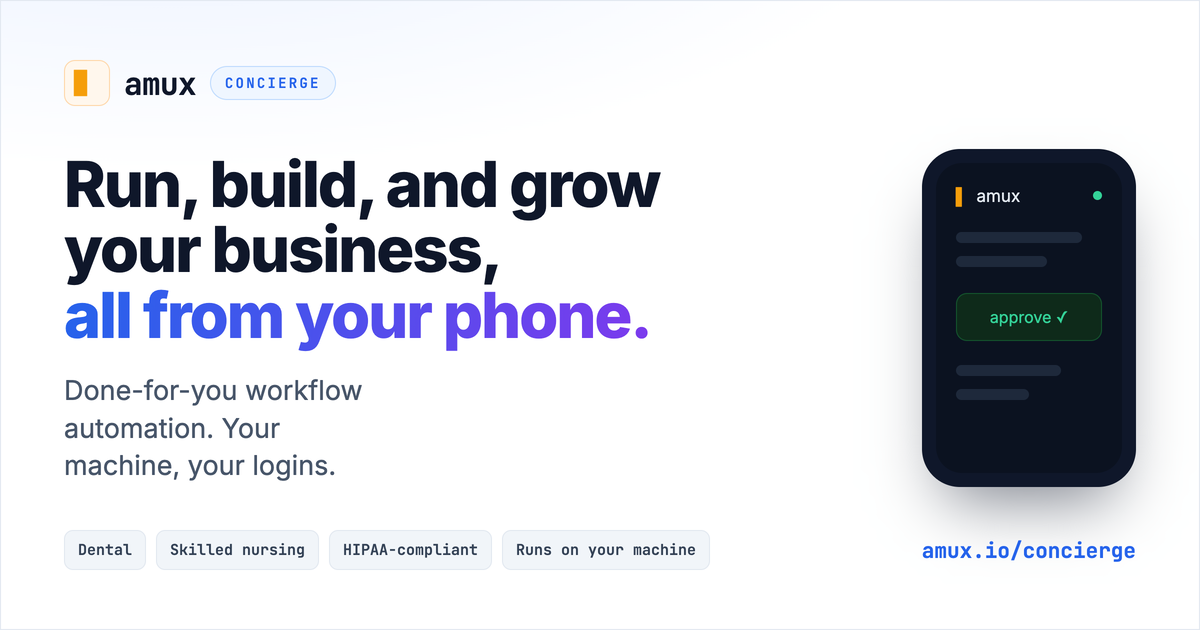
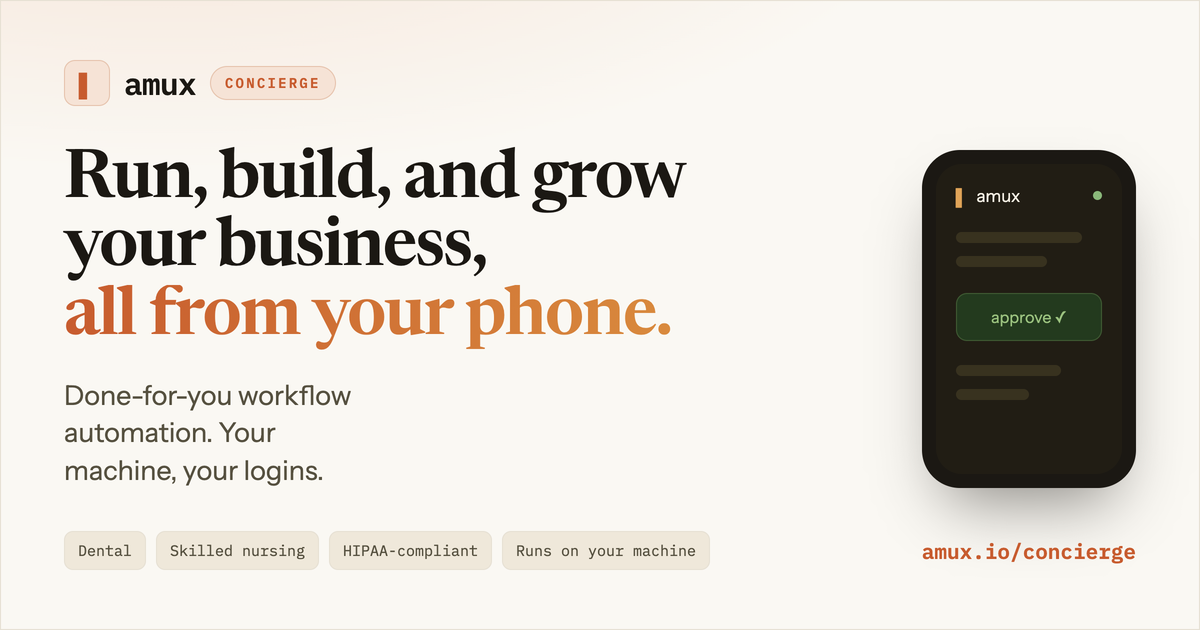
style(concierge): re-theme to editorial cream/serif/terracotta design
Matches the uploaded design (a design-tool export that was a client-rendered
React/Babel bundle with no SEO). Rebuilt the look in the existing clean,
static, SEO-complete page instead of shipping the heavy bundle:
- Palette to cream (#faf8f3) + terracotta (#c75b2e) + dark brown bands (#1b1813)
- Newsreader serif headlines, Instrument Sans body, IBM Plex Mono labels
- Dark contrast bands (how-it-works, AI age, final CTA); dark terracotta consoles
- Blue accents -> terracotta throughout; regenerated OG image to match
Keeps working tabs, SMIL animations, favicons, and full OG/SEO; no external
runtime (React/Babel/unpkg removed). Verified desktop + mobile.

Amux-Session: amux

diff --git a/site/concierge/index.html b/site/concierge/index.html
@@ -32,7 +32,7 @@
 <meta name="author" content="amux">
 <link rel="preconnect" href="https://fonts.googleapis.com">
 <link rel="preconnect" href="https://fonts.gstatic.com" crossorigin>
-<link href="https://fonts.googleapis.com/css2?family=Inter:wght@400;500;600;700;800&family=JetBrains+Mono:wght@600;700&display=swap" rel="stylesheet">
+<link href="https://fonts.googleapis.com/css2?family=Newsreader:opsz,wght@6..72,400;6..72,500;6..72,600;6..72,700&family=Instrument+Sans:wght@400;500;600;700&family=IBM+Plex+Mono:wght@400;500;600&display=swap" rel="stylesheet">
 
 <!-- Structured data: Service + Offer -->
 <script type="application/ld+json">
@@ -68,16 +68,19 @@
 
 <style>
   :root{
-    --bg:#ffffff; --bg-soft:#f8fafc; --bg-soft2:#f1f5f9;
-    --ink:#0f172a; --ink-2:#334155; --ink-3:#475569; --mute:#64748b;
-    --line:#e2e8f0; --line-2:#cbd5e1;
-    --brand:#f59e0b;                 /* amux amber brand mark */
-    --accent:#2563eb; --accent-2:#1d4ed8; --accent-soft:#eff6ff;
-    --ok:#059669; --ok-soft:#ecfdf5;
+    --bg:#faf8f3; --bg-soft:#f4efe4; --bg-soft2:#ece6d8;
+    --ink:#1b1813; --ink-2:#55503f; --ink-3:#6b6558; --mute:#8a8271;
+    --line:#e6e0d3; --line-2:#ddd5c2;
+    --brand:#c75b2e;                 /* terracotta brand accent */
+    --accent:#c75b2e; --accent-2:#a84a24; --accent-soft:#f6e3d6;
+    --ok:#5f8a4a; --ok-soft:#e9efdf;
+    --dark:#1b1813; --dark-2:#211d14; --dark-3:#2a2519;  /* dark contrast bands + consoles */
+    --cream:#f4efe4; --cream-dim:#c3b9a3;
     --radius:14px; --maxw:1080px;
-    --sans:"Inter",-apple-system,BlinkMacSystemFont,"Segoe UI",Roboto,Helvetica,Arial,sans-serif;
-    --mono:"JetBrains Mono",ui-monospace,SFMono-Regular,Menlo,monospace;
-    --shadow:0 1px 2px rgba(15,23,42,.04), 0 12px 32px -16px rgba(15,23,42,.16);
+    --serif:"Newsreader", Georgia, "Times New Roman", serif;
+    --sans:"Instrument Sans",-apple-system,BlinkMacSystemFont,"Segoe UI",Roboto,Helvetica,Arial,sans-serif;
+    --mono:"IBM Plex Mono",ui-monospace,SFMono-Regular,Menlo,monospace;
+    --shadow:0 1px 2px rgba(27,24,19,.04), 0 12px 32px -16px rgba(27,24,19,.14);
   }
   *,*::before,*::after{box-sizing:border-box;margin:0;padding:0}
   html{scroll-behavior:smooth;-webkit-text-size-adjust:100%}
@@ -115,7 +118,7 @@
     min-height:46px; transition:transform .04s ease, background .15s ease, box-shadow .15s ease;
   }
   .btn:active{transform:translateY(1px)}
-  .btn-primary{background:var(--accent); color:#fff; box-shadow:0 8px 20px -10px rgba(37,99,235,.7)}
+  .btn-primary{background:var(--accent); color:#fff; box-shadow:0 8px 20px -10px rgba(199,91,46,.7)}
   .btn-primary:hover{background:var(--accent-2); color:#fff}
   .btn-ghost{background:#fff; color:var(--ink); border-color:var(--line-2)}
   .btn-ghost:hover{border-color:var(--accent); color:var(--accent)}
@@ -124,12 +127,12 @@
 
   /* ── HERO ── */
   .hero{padding:76px 0 40px; background:
-     radial-gradient(60% 55% at 50% -10%, #eff6ff 0%, rgba(239,246,255,0) 70%), var(--bg);}
+     radial-gradient(60% 55% at 50% -10%, #f6e3d6 0%, rgba(246,227,214,0) 70%), var(--bg);}
   .hero h1{
     font-size:clamp(2.1rem,5.4vw,3.6rem); line-height:1.06; letter-spacing:-.03em;
     font-weight:800; max-width:16ch; margin:16px 0 0;
   }
-  .hero h1 .grad{background:linear-gradient(100deg,var(--accent),#7c3aed); -webkit-background-clip:text; background-clip:text; color:transparent}
+  .hero h1 .grad{background:linear-gradient(100deg,#c75b2e,#d98a3d); -webkit-background-clip:text; background-clip:text; color:transparent}
   .hero .lead{font-size:clamp(1.05rem,2.2vw,1.3rem); color:var(--ink-3); max-width:62ch; margin:22px 0 0}
   .hero .cta-row{display:flex; flex-wrap:wrap; gap:12px; margin-top:32px}
   .trust{display:flex; flex-wrap:wrap; gap:8px 22px; margin-top:30px; font-size:14px; color:var(--mute)}
@@ -179,10 +182,10 @@
   .sys-list{display:flex; flex-wrap:wrap; gap:7px; margin-top:6px}
   .chip{font-family:var(--mono); font-size:12px; font-weight:600; color:var(--ink-2); background:var(--bg-soft2); border:1px solid var(--line); border-radius:7px; padding:5px 9px}
   .safe{
-    margin-top:18px; background:var(--accent-soft); border:1px solid #bfdbfe; border-radius:10px;
-    padding:14px 16px; font-size:14px; color:#1e3a8a; line-height:1.55;
+    margin-top:18px; background:var(--accent-soft); border:1px solid #e6c3ad; border-radius:10px;
+    padding:14px 16px; font-size:14px; color:#7a3a1e; line-height:1.55;
   }
-  .safe strong{color:#1e3a8a}
+  .safe strong{color:#7a3a1e}
   .stat{margin-top:20px}
   .stat .big{font-size:1.05rem; color:var(--ink); font-weight:600; line-height:1.45}
   .stat .cite{font-size:12.5px; color:var(--mute); margin-top:6px}
@@ -190,7 +193,7 @@
   /* ── STEPS ── */
   .steps{display:grid; grid-template-columns:repeat(4,1fr); gap:16px; margin-top:34px}
   .step{background:#fff; border:1px solid var(--line); border-radius:var(--radius); padding:22px; box-shadow:var(--shadow)}
-  .step .n{font-family:var(--mono); font-weight:700; font-size:14px; color:var(--accent); width:30px; height:30px; display:grid; place-items:center; border:1px solid #bfdbfe; background:var(--accent-soft); border-radius:8px}
+  .step .n{font-family:var(--mono); font-weight:700; font-size:14px; color:var(--accent); width:30px; height:30px; display:grid; place-items:center; border:1px solid #e6c3ad; background:var(--accent-soft); border-radius:8px}
   .step h3{font-size:1.05rem; font-weight:700; margin:14px 0 6px; letter-spacing:-.01em}
   .step p{font-size:14.5px; color:var(--ink-3)}
 
@@ -204,7 +207,7 @@
 
   /* ── PRICING ── */
   .price-wrap{display:grid; grid-template-columns:1.1fr .9fr; gap:22px; margin-top:32px; align-items:start}
-  .price-card{background:#fff; border:2px solid var(--accent); border-radius:18px; padding:30px; box-shadow:0 24px 60px -30px rgba(37,99,235,.45)}
+  .price-card{background:#fff; border:2px solid var(--accent); border-radius:18px; padding:30px; box-shadow:0 24px 60px -30px rgba(199,91,46,.45)}
   .price-row{display:flex; align-items:baseline; justify-content:space-between; gap:12px; padding:16px 0; border-bottom:1px dashed var(--line)}
   .price-row:last-of-type{border-bottom:none}
   .price-row .label{font-weight:600; color:var(--ink)}
@@ -228,7 +231,7 @@
   details.q .a{padding:0 20px 18px; color:var(--ink-3); font-size:15px; line-height:1.6}
 
   /* ── FINAL CTA ── */
-  .final{background:linear-gradient(135deg,#0f172a,#1e293b); color:#fff; border-radius:20px; padding:48px 40px; text-align:center; margin:8px 0 0}
+  .final{background:linear-gradient(135deg,#1b1813,#2a2519); color:#fff; border-radius:20px; padding:48px 40px; text-align:center; margin:8px 0 0}
   .final h2{font-size:clamp(1.6rem,3.6vw,2.3rem); font-weight:800; letter-spacing:-.02em; color:#fff; max-width:24ch; margin:0 auto}
   .final p{color:#cbd5e1; font-size:1.08rem; max-width:56ch; margin:14px auto 0}
   .final .cta-row{justify-content:center; margin-top:28px}
@@ -258,7 +261,7 @@
 
   /* ── FUTURE-PROOF / AI AGE ── */
   .future-viz{background:#fff; border:1px solid var(--line); border-radius:var(--radius); padding:22px; box-shadow:var(--shadow); margin-top:30px}
-  .const-bar{display:flex; align-items:baseline; gap:12px; flex-wrap:wrap; background:linear-gradient(90deg,#eff6ff,#f5f3ff); border:1px solid #dbeafe; border-radius:10px; padding:14px 18px}
+  .const-bar{display:flex; align-items:baseline; gap:12px; flex-wrap:wrap; background:linear-gradient(90deg,#f6e3d6,#f5f3ff); border:1px solid #dbeafe; border-radius:10px; padding:14px 18px}
   .const-bar strong{font-size:1.05rem; color:var(--ink)}
   .const-bar span{font-family:var(--mono); font-size:12px; color:var(--mute)}
   .engine-label{font-family:var(--mono); font-size:11px; letter-spacing:.08em; text-transform:uppercase; color:var(--mute); margin:16px 0 10px}
@@ -279,11 +282,11 @@
 
   /* ── HERO ART + ANIMATED DEMOS ── */
   .hero-grid{display:grid; grid-template-columns:2fr 1fr; gap:44px; align-items:center}
-  .hero-art{border:1px solid var(--line); border-radius:16px; box-shadow:var(--shadow); overflow:hidden; background:#fff}
+  .hero-art{border:1px solid #38321f; border-radius:16px; box-shadow:var(--shadow); overflow:hidden; background:var(--dark-2)}
   .hero-art svg, .demo-card svg{display:block; width:100%; height:auto}
   .demo-wrap{margin-top:2px}
   .demo-cap{font-family:var(--mono); font-size:11px; letter-spacing:.06em; text-transform:uppercase; color:var(--mute); margin-bottom:10px}
-  .demo-card{border:1px solid var(--line); border-radius:12px; box-shadow:var(--shadow); overflow-x:auto; -webkit-overflow-scrolling:touch; background:#fff}
+  .demo-card{border:1px solid #38321f; border-radius:12px; box-shadow:var(--shadow); overflow-x:auto; -webkit-overflow-scrolling:touch; background:var(--dark-2)}
   .demo-card svg{min-width:480px}
   .panel-demo{padding:20px 28px 2px}
   .panel-demo .demo-card{max-width:none}
@@ -309,6 +312,27 @@
     .final{padding:36px 22px; border-radius:16px}
     .cta-row .btn{width:100%}
   }
+  /* ── EDITORIAL THEME: serif headlines + dark contrast bands ── */
+  .hero h1, h2.sec, .panel-top h3, .feat h3, .setup h3, .step h3, .final h2, .price-note h3, .picker-head h2 {
+    font-family: var(--serif); font-weight: 600; letter-spacing: -.01em;
+  }
+  .hero h1 { letter-spacing: -.015em; }
+  .on-dark { background: var(--dark); border-top: 1px solid #3a3428; border-bottom: 1px solid #3a3428; }
+  .on-dark h2.sec, .on-dark h3 { color: var(--cream); }
+  .on-dark .sec-sub, .on-dark p { color: var(--cream-dim); }
+  .on-dark .eyebrow { color: #e0a458; }
+  .on-dark .step, .on-dark .feat, .on-dark .future-viz { background: var(--dark-2); border-color: #3a3428; box-shadow: none; }
+  .on-dark .step h3, .on-dark .feat h3, .on-dark .feat p strong { color: var(--cream); }
+  .on-dark .step p, .on-dark .feat p { color: var(--cream-dim); }
+  .on-dark .step .n { background: rgba(199,91,46,.16); border-color: #5a3a28; color: #e0a458; }
+  .on-dark .feat .ic { background: rgba(199,91,46,.16); }
+  .on-dark .feat .ic .i { stroke: #e0a458; }
+  .on-dark .const-bar { background: rgba(199,91,46,.10); border-color: #5a3a28; }
+  .on-dark .const-bar strong { color: var(--cream); }
+  .on-dark .const-bar span, .on-dark .engine-label { color: #a69e8b; }
+  .on-dark .chip { background: var(--dark-3); border-color: #3a3428; color: var(--cream-dim); }
+  .on-dark .chip-live { background: rgba(95,138,74,.18); border-color: #5f8a4a; color: #9bc27f; }
+  .on-dark .engine-row .arrow { color: #5a5344; }
 </style>
 </head>
 <body>
@@ -347,53 +371,53 @@
       </div>
       <div class="hero-art">
         <svg viewBox="0 0 470 372" xmlns="http://www.w3.org/2000/svg" font-family="Inter, sans-serif" role="img" aria-label="Animated demo: amux receives a task, prepares a draft, waits for your approval, then completes it.">
-          <rect width="470" height="372" fill="#ffffff"/>
+          <rect width="470" height="372" fill="#211d14"/>
           <circle cx="26" cy="25" r="5" fill="#f87171"/>
           <circle cx="44" cy="25" r="5" fill="#fbbf24"/>
           <circle cx="62" cy="25" r="5" fill="#34d399"/>
-          <text x="88" y="30" font-family="JetBrains Mono, monospace" font-size="13" fill="#64748b">amux · workflow</text>
+          <text x="88" y="30" font-family="JetBrains Mono, monospace" font-size="13" fill="#a69e8b">amux · workflow</text>
           <circle cx="410" cy="25" r="4" fill="#34d399"/>
-          <text x="424" y="29" font-family="JetBrains Mono, monospace" font-size="11" fill="#059669">live</text>
-          <line x1="0" y1="49" x2="470" y2="49" stroke="#eef2f7" stroke-width="1"/>
+          <text x="424" y="29" font-family="JetBrains Mono, monospace" font-size="11" fill="#8ab87a">live</text>
+          <line x1="0" y1="49" x2="470" y2="49" stroke="#38321f" stroke-width="1"/>
 
           <g opacity="0">
             <animate attributeName="opacity" dur="7s" repeatCount="indefinite" values="0;0;1;1;0" keyTimes="0;0.05;0.10;0.95;1"/>
-            <text x="28" y="89" font-family="JetBrains Mono, monospace" font-size="14" fill="#f59e0b">▌</text>
-            <text x="46" y="89" font-size="15" font-weight="600" fill="#0f172a">New task</text>
-            <text x="46" y="108" font-family="JetBrains Mono, monospace" font-size="11.5" fill="#64748b">process referral · fax</text>
+            <text x="28" y="89" font-family="JetBrains Mono, monospace" font-size="14" fill="#e0a458">▌</text>
+            <text x="46" y="89" font-size="15" font-weight="600" fill="#f4efe4">New task</text>
+            <text x="46" y="108" font-family="JetBrains Mono, monospace" font-size="11.5" fill="#a69e8b">process referral · fax</text>
           </g>
 
           <g opacity="0">
             <animate attributeName="opacity" dur="7s" repeatCount="indefinite" values="0;0;1;1;0" keyTimes="0;0.16;0.20;0.95;1"/>
-            <text x="28" y="144" font-size="14.5" fill="#0f172a">amux preparing packet…</text>
-            <rect x="28" y="156" width="414" height="8" rx="4" fill="#eef2f7"/>
-            <rect x="28" y="156" width="0" height="8" rx="4" fill="#2563eb">
+            <text x="28" y="144" font-size="14.5" fill="#f4efe4">amux preparing packet…</text>
+            <rect x="28" y="156" width="414" height="8" rx="4" fill="#38321f"/>
+            <rect x="28" y="156" width="0" height="8" rx="4" fill="#c75b2e">
               <animate attributeName="width" dur="7s" repeatCount="indefinite" values="0;0;414;414;0" keyTimes="0;0.20;0.44;0.95;1"/>
             </rect>
           </g>
 
           <g opacity="0">
             <animate attributeName="opacity" dur="7s" repeatCount="indefinite" values="0;0;1;1;0" keyTimes="0;0.47;0.51;0.95;1"/>
-            <text x="28" y="198" font-size="15" font-weight="600" fill="#0f172a">Draft ready</text>
-            <text x="28" y="217" font-family="JetBrains Mono, monospace" font-size="11.5" fill="#64748b">waiting for your OK</text>
+            <text x="28" y="198" font-size="15" font-weight="600" fill="#f4efe4">Draft ready</text>
+            <text x="28" y="217" font-family="JetBrains Mono, monospace" font-size="11.5" fill="#a69e8b">waiting for your OK</text>
           </g>
 
           <g opacity="0">
             <animate attributeName="opacity" dur="7s" repeatCount="indefinite" values="0;0;1;1;0" keyTimes="0;0.52;0.56;0.95;1"/>
-            <rect x="28" y="234" width="152" height="42" rx="11" fill="#ecfdf5" stroke="#059669" stroke-width="1.5"/>
-            <text x="104" y="260" text-anchor="middle" font-size="15" font-weight="600" fill="#065f46">Approve ✓</text>
+            <rect x="28" y="234" width="152" height="42" rx="11" fill="#233a1e" stroke="#8ab87a" stroke-width="1.5"/>
+            <text x="104" y="260" text-anchor="middle" font-size="15" font-weight="600" fill="#9bc27f">Approve ✓</text>
           </g>
 
           <g opacity="0">
             <animate attributeName="opacity" dur="7s" repeatCount="indefinite" values="0;0;1;1;0" keyTimes="0;0.66;0.70;0.95;1"/>
-            <circle cx="38" cy="308" r="12" fill="#ecfdf5" stroke="#059669" stroke-width="1.5"/>
-            <path d="M33 308 l4 4 7-8" fill="none" stroke="#059669" stroke-width="2" stroke-linecap="round" stroke-linejoin="round"/>
-            <text x="58" y="304" font-size="15" font-weight="600" fill="#0f172a">Done · sent to payer</text>
-            <text x="58" y="322" font-family="JetBrains Mono, monospace" font-size="11.5" fill="#64748b">12 minutes saved</text>
+            <circle cx="38" cy="308" r="12" fill="#233a1e" stroke="#8ab87a" stroke-width="1.5"/>
+            <path d="M33 308 l4 4 7-8" fill="none" stroke="#8ab87a" stroke-width="2" stroke-linecap="round" stroke-linejoin="round"/>
+            <text x="58" y="304" font-size="15" font-weight="600" fill="#f4efe4">Done · sent to payer</text>
+            <text x="58" y="322" font-family="JetBrains Mono, monospace" font-size="11.5" fill="#a69e8b">12 minutes saved</text>
           </g>
 
-          <line x1="0" y1="344" x2="470" y2="344" stroke="#eef2f7" stroke-width="1"/>
-          <text x="28" y="361" font-family="JetBrains Mono, monospace" font-size="10.5" fill="#94a3b8">runs on your machine · you approve every step</text>
+          <line x1="0" y1="344" x2="470" y2="344" stroke="#38321f" stroke-width="1"/>
+          <text x="28" y="361" font-family="JetBrains Mono, monospace" font-size="10.5" fill="#7a7360">runs on your machine · you approve every step</text>
         </svg>
       </div>
     </div>
@@ -427,27 +451,27 @@
           <div class="demo-cap">Live · predetermination workflow</div>
           <div class="demo-card">
             <svg viewBox="0 0 900 200" xmlns="http://www.w3.org/2000/svg" font-family="Inter, sans-serif" role="img" aria-label="Animated demo: amux checks eligibility, assembles the packet, submits to the payer, and returns an estimate.">
-              <rect width="900" height="200" fill="#ffffff"/>
+              <rect width="900" height="200" fill="#211d14"/>
               <circle cx="22" cy="21" r="4" fill="#f87171"/><circle cx="37" cy="21" r="4" fill="#fbbf24"/><circle cx="52" cy="21" r="4" fill="#34d399"/>
-              <text x="72" y="25" font-family="JetBrains Mono, monospace" font-size="12" fill="#64748b">amux · predetermination</text>
-              <line x1="0" y1="42" x2="900" y2="42" stroke="#eef2f7"/>
+              <text x="72" y="25" font-family="JetBrains Mono, monospace" font-size="12" fill="#a69e8b">amux · predetermination</text>
+              <line x1="0" y1="42" x2="900" y2="42" stroke="#38321f"/>
               <g opacity="0" font-family="JetBrains Mono, monospace" font-size="14">
                 <animate attributeName="opacity" dur="6s" repeatCount="indefinite" values="0;0;1;1;0" keyTimes="0;0.05;0.09;0.95;1"/>
-                <text x="24" y="74" fill="#94a3b8">›</text><text x="44" y="74" fill="#334155">eligibility · Delta Dental … <tspan fill="#059669">ok</tspan></text>
+                <text x="24" y="74" fill="#7a7360">›</text><text x="44" y="74" fill="#d8cfba">eligibility · Delta Dental … <tspan fill="#8ab87a">ok</tspan></text>
               </g>
               <g opacity="0" font-family="JetBrains Mono, monospace" font-size="14">
                 <animate attributeName="opacity" dur="6s" repeatCount="indefinite" values="0;0;1;1;0" keyTimes="0;0.20;0.24;0.95;1"/>
-                <text x="24" y="104" fill="#94a3b8">›</text><text x="44" y="104" fill="#334155">packet · x-rays + perio + narrative</text>
+                <text x="24" y="104" fill="#7a7360">›</text><text x="44" y="104" fill="#d8cfba">packet · x-rays + perio + narrative</text>
               </g>
               <g opacity="0">
                 <animate attributeName="opacity" dur="6s" repeatCount="indefinite" values="0;0;1;1;0" keyTimes="0;0.34;0.38;0.95;1"/>
-                <text x="24" y="138" font-family="JetBrains Mono, monospace" font-size="14" fill="#334155">submitting to payer…</text>
-                <rect x="232" y="130" width="636" height="8" rx="4" fill="#eef2f7"/>
-                <rect x="232" y="130" width="0" height="8" rx="4" fill="#2563eb"><animate attributeName="width" dur="6s" repeatCount="indefinite" values="0;0;636;636;0" keyTimes="0;0.38;0.62;0.95;1"/></rect>
+                <text x="24" y="138" font-family="JetBrains Mono, monospace" font-size="14" fill="#d8cfba">submitting to payer…</text>
+                <rect x="232" y="130" width="636" height="8" rx="4" fill="#38321f"/>
+                <rect x="232" y="130" width="0" height="8" rx="4" fill="#c75b2e"><animate attributeName="width" dur="6s" repeatCount="indefinite" values="0;0;636;636;0" keyTimes="0;0.38;0.62;0.95;1"/></rect>
               </g>
               <g opacity="0">
                 <animate attributeName="opacity" dur="6s" repeatCount="indefinite" values="0;0;1;1;0" keyTimes="0;0.70;0.74;0.95;1"/>
-                <text x="24" y="172" font-family="JetBrains Mono, monospace" font-size="14" font-weight="600" fill="#059669">✓ estimate returned · $842 covered</text>
+                <text x="24" y="172" font-family="JetBrains Mono, monospace" font-size="14" font-weight="600" fill="#8ab87a">✓ estimate returned · $842 covered</text>
               </g>
             </svg>
           </div>
@@ -494,27 +518,27 @@
           <div class="demo-cap">Live · referral intake workflow</div>
           <div class="demo-card">
             <svg viewBox="0 0 900 200" xmlns="http://www.w3.org/2000/svg" font-family="Inter, sans-serif" role="img" aria-label="Animated demo: amux ingests a referral, structures it, verifies benefits, and matches a bed for review.">
-              <rect width="900" height="200" fill="#ffffff"/>
+              <rect width="900" height="200" fill="#211d14"/>
               <circle cx="22" cy="21" r="4" fill="#f87171"/><circle cx="37" cy="21" r="4" fill="#fbbf24"/><circle cx="52" cy="21" r="4" fill="#34d399"/>
-              <text x="72" y="25" font-family="JetBrains Mono, monospace" font-size="12" fill="#64748b">amux · referral intake</text>
-              <line x1="0" y1="42" x2="900" y2="42" stroke="#eef2f7"/>
+              <text x="72" y="25" font-family="JetBrains Mono, monospace" font-size="12" fill="#a69e8b">amux · referral intake</text>
+              <line x1="0" y1="42" x2="900" y2="42" stroke="#38321f"/>
               <g opacity="0" font-family="JetBrains Mono, monospace" font-size="14">
                 <animate attributeName="opacity" dur="6s" repeatCount="indefinite" values="0;0;1;1;0" keyTimes="0;0.05;0.09;0.95;1"/>
-                <text x="24" y="74" fill="#94a3b8">›</text><text x="44" y="74" fill="#334155">new referral · fax · St. Mary's</text>
+                <text x="24" y="74" fill="#7a7360">›</text><text x="44" y="74" fill="#d8cfba">new referral · fax · St. Mary's</text>
               </g>
               <g opacity="0" font-family="JetBrains Mono, monospace" font-size="14">
                 <animate attributeName="opacity" dur="6s" repeatCount="indefinite" values="0;0;1;1;0" keyTimes="0;0.20;0.24;0.95;1"/>
-                <text x="24" y="104" fill="#94a3b8">›</text><text x="44" y="104" fill="#334155">structured · dx + meds + insurance</text>
+                <text x="24" y="104" fill="#7a7360">›</text><text x="44" y="104" fill="#d8cfba">structured · dx + meds + insurance</text>
               </g>
               <g opacity="0">
                 <animate attributeName="opacity" dur="6s" repeatCount="indefinite" values="0;0;1;1;0" keyTimes="0;0.34;0.38;0.95;1"/>
-                <text x="24" y="138" font-family="JetBrains Mono, monospace" font-size="14" fill="#334155">verifying benefits…</text>
-                <rect x="210" y="130" width="658" height="8" rx="4" fill="#eef2f7"/>
-                <rect x="210" y="130" width="0" height="8" rx="4" fill="#2563eb"><animate attributeName="width" dur="6s" repeatCount="indefinite" values="0;0;658;658;0" keyTimes="0;0.38;0.62;0.95;1"/></rect>
+                <text x="24" y="138" font-family="JetBrains Mono, monospace" font-size="14" fill="#d8cfba">verifying benefits…</text>
+                <rect x="210" y="130" width="658" height="8" rx="4" fill="#38321f"/>
+                <rect x="210" y="130" width="0" height="8" rx="4" fill="#c75b2e"><animate attributeName="width" dur="6s" repeatCount="indefinite" values="0;0;658;658;0" keyTimes="0;0.38;0.62;0.95;1"/></rect>
               </g>
               <g opacity="0">
                 <animate attributeName="opacity" dur="6s" repeatCount="indefinite" values="0;0;1;1;0" keyTimes="0;0.70;0.74;0.95;1"/>
-                <text x="24" y="172" font-family="JetBrains Mono, monospace" font-size="14" font-weight="600" fill="#059669">✓ bed matched · Unit A-12 · ready for review</text>
+                <text x="24" y="172" font-family="JetBrains Mono, monospace" font-size="14" font-weight="600" fill="#8ab87a">✓ bed matched · Unit A-12 · ready for review</text>
               </g>
             </svg>
           </div>
@@ -617,7 +641,7 @@
 </section>
 
 <!-- HOW IT WORKS -->
-<section id="how">
+<section id="how" class="on-dark">
   <div class="wrap">
     <span class="eyebrow">How it works</span>
     <h2 class="sec">From first call to running in your pocket.</h2>
@@ -685,7 +709,7 @@
         <text x="96" y="52" text-anchor="middle" font-family="JetBrains Mono, monospace" font-size="11" fill="#475569" letter-spacing="1">YOUR OFFICE</text>
 
         <!-- amux server node -->
-        <rect x="48" y="92" width="196" height="96" rx="14" fill="#ffffff" stroke="#2563eb" stroke-width="1.5"/>
+        <rect x="48" y="92" width="196" height="96" rx="14" fill="#ffffff" stroke="#c75b2e" stroke-width="1.5"/>
         <rect x="66" y="110" width="28" height="28" rx="7" fill="#fff7ed" stroke="#fed7aa"/>
         <text x="80" y="131" text-anchor="middle" font-family="JetBrains Mono, monospace" font-size="16" font-weight="700" fill="#f59e0b">▌</text>
         <text x="104" y="124" font-size="14.5" font-weight="700" fill="#0f172a">amux server</text>
@@ -711,12 +735,12 @@
         <text x="40" y="312" font-size="12.5" fill="#475569">Your data &amp; logins never leave these walls.</text>
 
         <!-- amux → phone (encrypted control leaving the walls) -->
-        <path d="M244 138 C 420 138 500 150 690 152" fill="none" stroke="#2563eb" stroke-width="2"/>
-        <text x="392" y="123" font-family="JetBrains Mono, monospace" font-size="11.5" fill="#2563eb">encrypted control</text>
+        <path d="M244 138 C 420 138 500 150 690 152" fill="none" stroke="#c75b2e" stroke-width="2"/>
+        <text x="392" y="123" font-family="JetBrains Mono, monospace" font-size="11.5" fill="#c75b2e">encrypted control</text>
         <!-- lock badge at the wall -->
-        <circle cx="566" cy="146" r="15" fill="#eff6ff" stroke="#2563eb" stroke-width="1.5"/>
-        <rect x="560" y="146" width="12" height="9" rx="1.5" fill="#2563eb"/>
-        <path d="M562.5 146 v-3 a3.5 3.5 0 0 1 7 0 v3" fill="none" stroke="#2563eb" stroke-width="1.6"/>
+        <circle cx="566" cy="146" r="15" fill="#f6e3d6" stroke="#c75b2e" stroke-width="1.5"/>
+        <rect x="560" y="146" width="12" height="9" rx="1.5" fill="#c75b2e"/>
+        <path d="M562.5 146 v-3 a3.5 3.5 0 0 1 7 0 v3" fill="none" stroke="#c75b2e" stroke-width="1.6"/>
 
         <!-- phone (outside the walls) -->
         <rect x="680" y="92" width="150" height="214" rx="24" fill="#0f172a"/>
@@ -760,7 +784,7 @@
 </section>
 
 <!-- FUTURE-PROOF / AI AGE -->
-<section id="future" style="background:linear-gradient(180deg,#f8fbff,#eef4ff); border-top:1px solid var(--line); border-bottom:1px solid var(--line)">
+<section id="future" class="on-dark">
   <div class="wrap">
     <span class="eyebrow">Built for the AI age</span>
     <h2 class="sec">Set your business up to win the AI age, and every upgrade after.</h2>